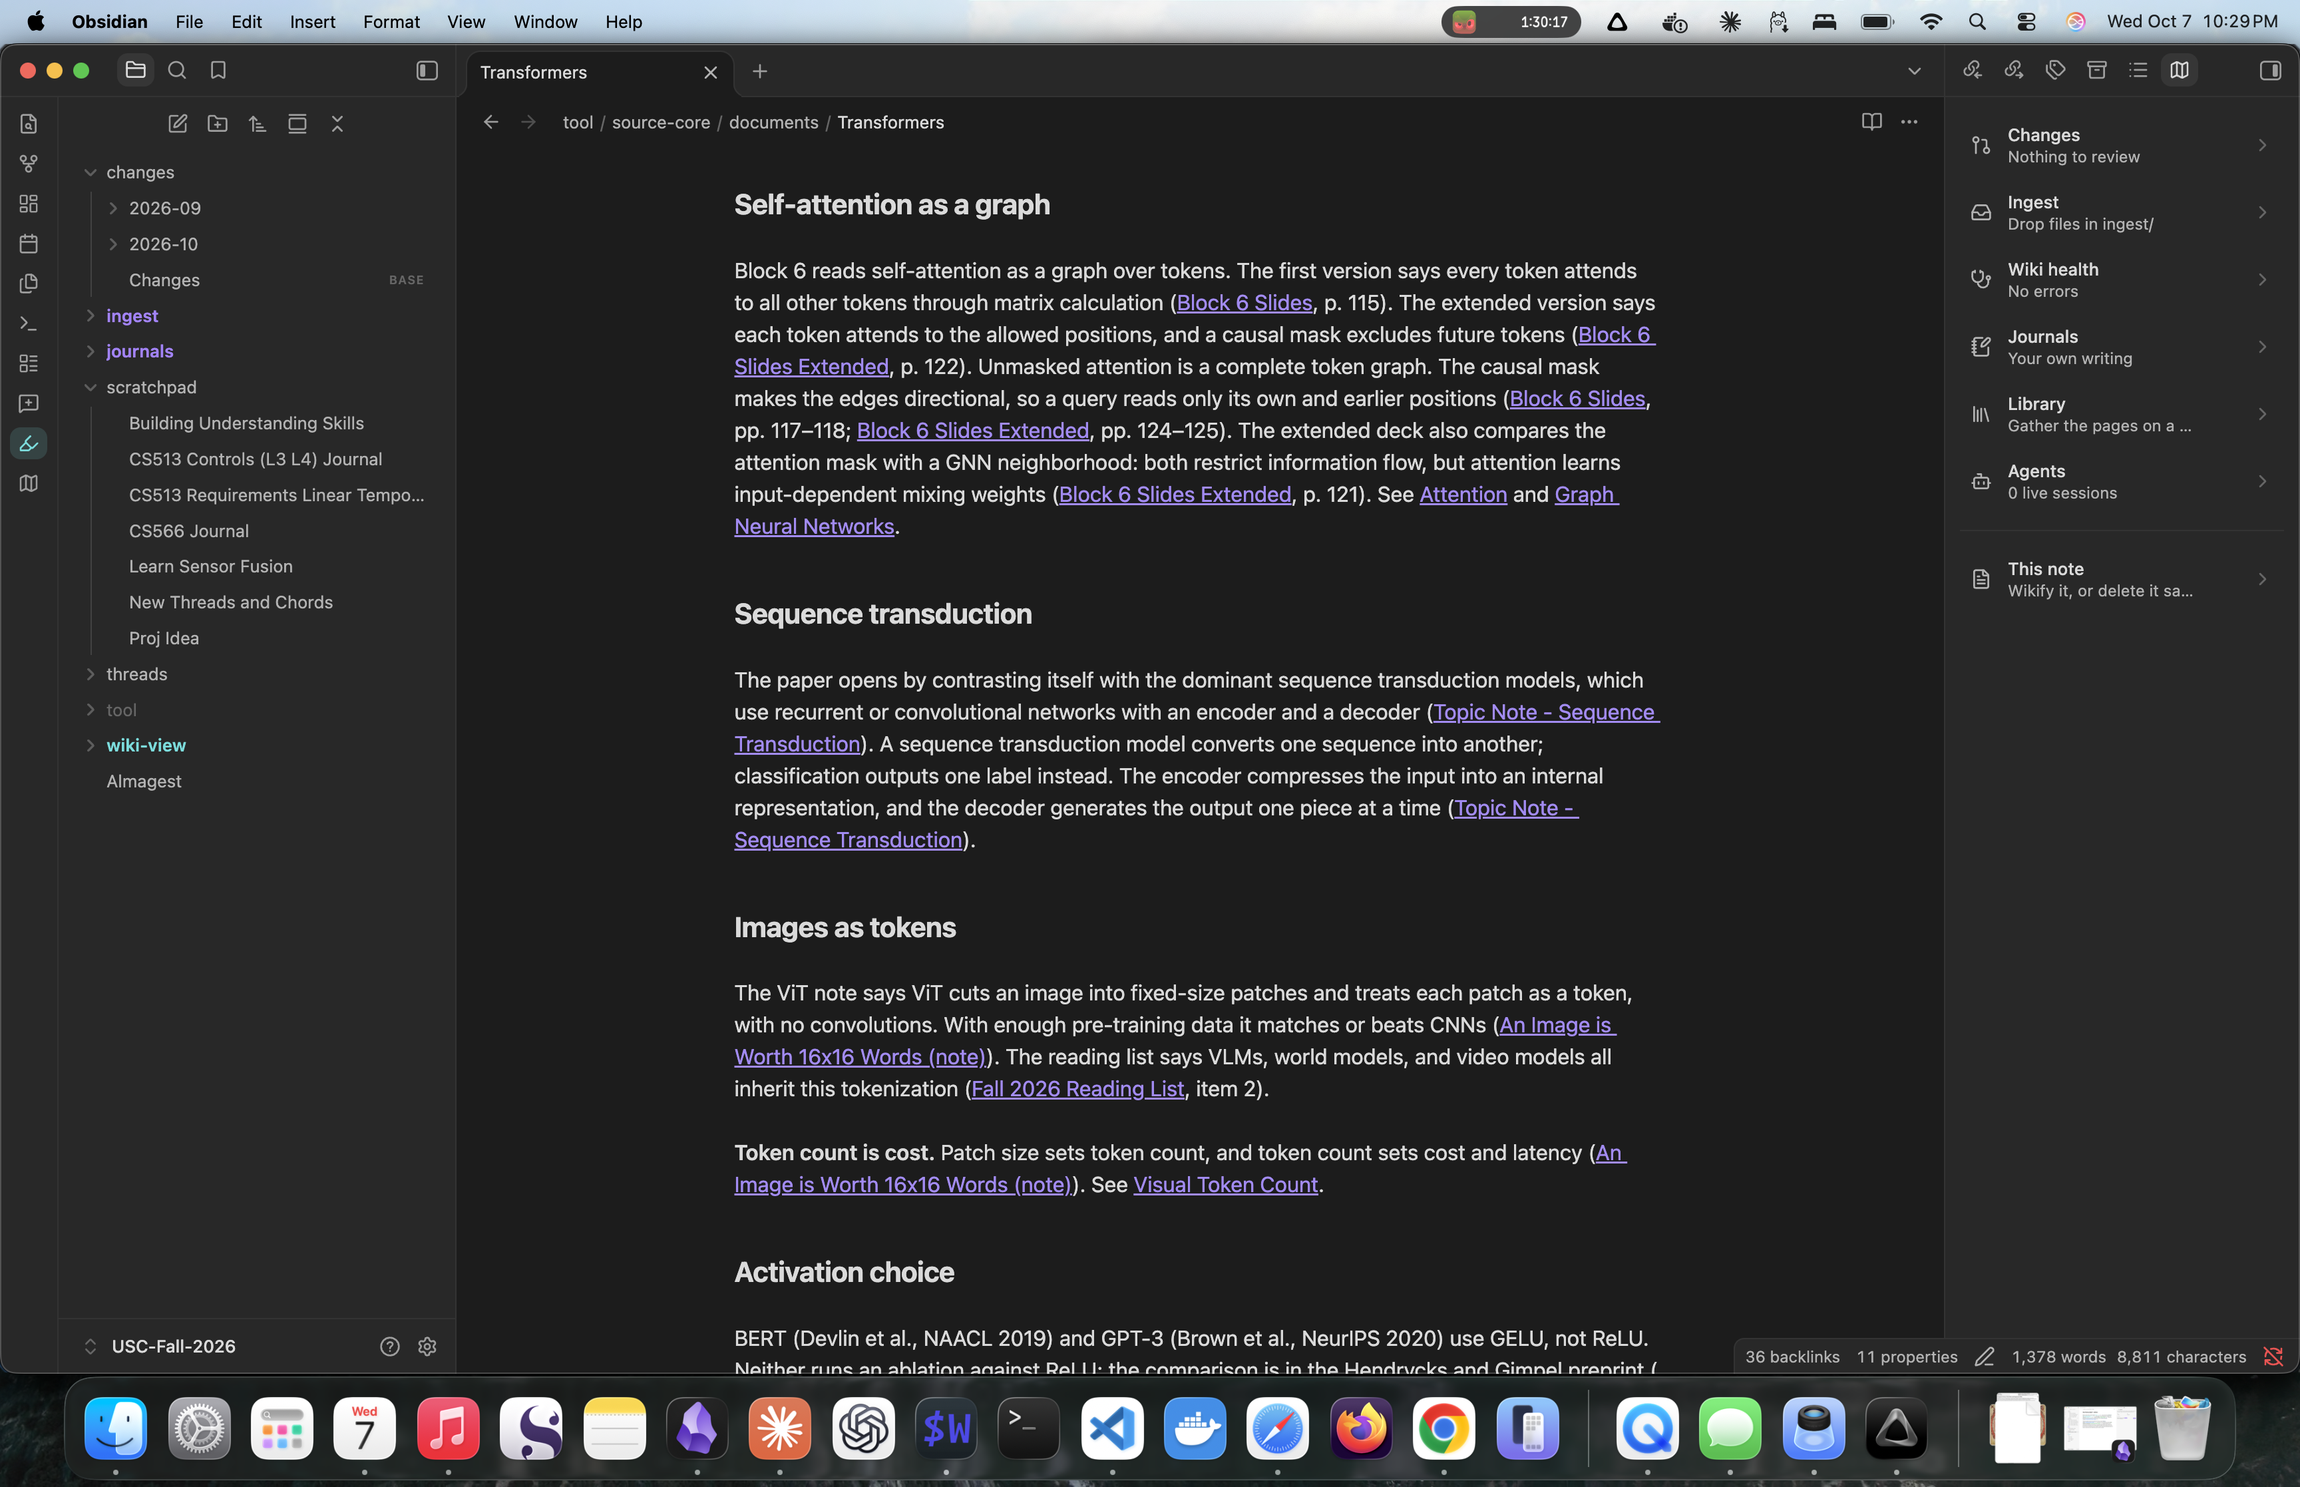
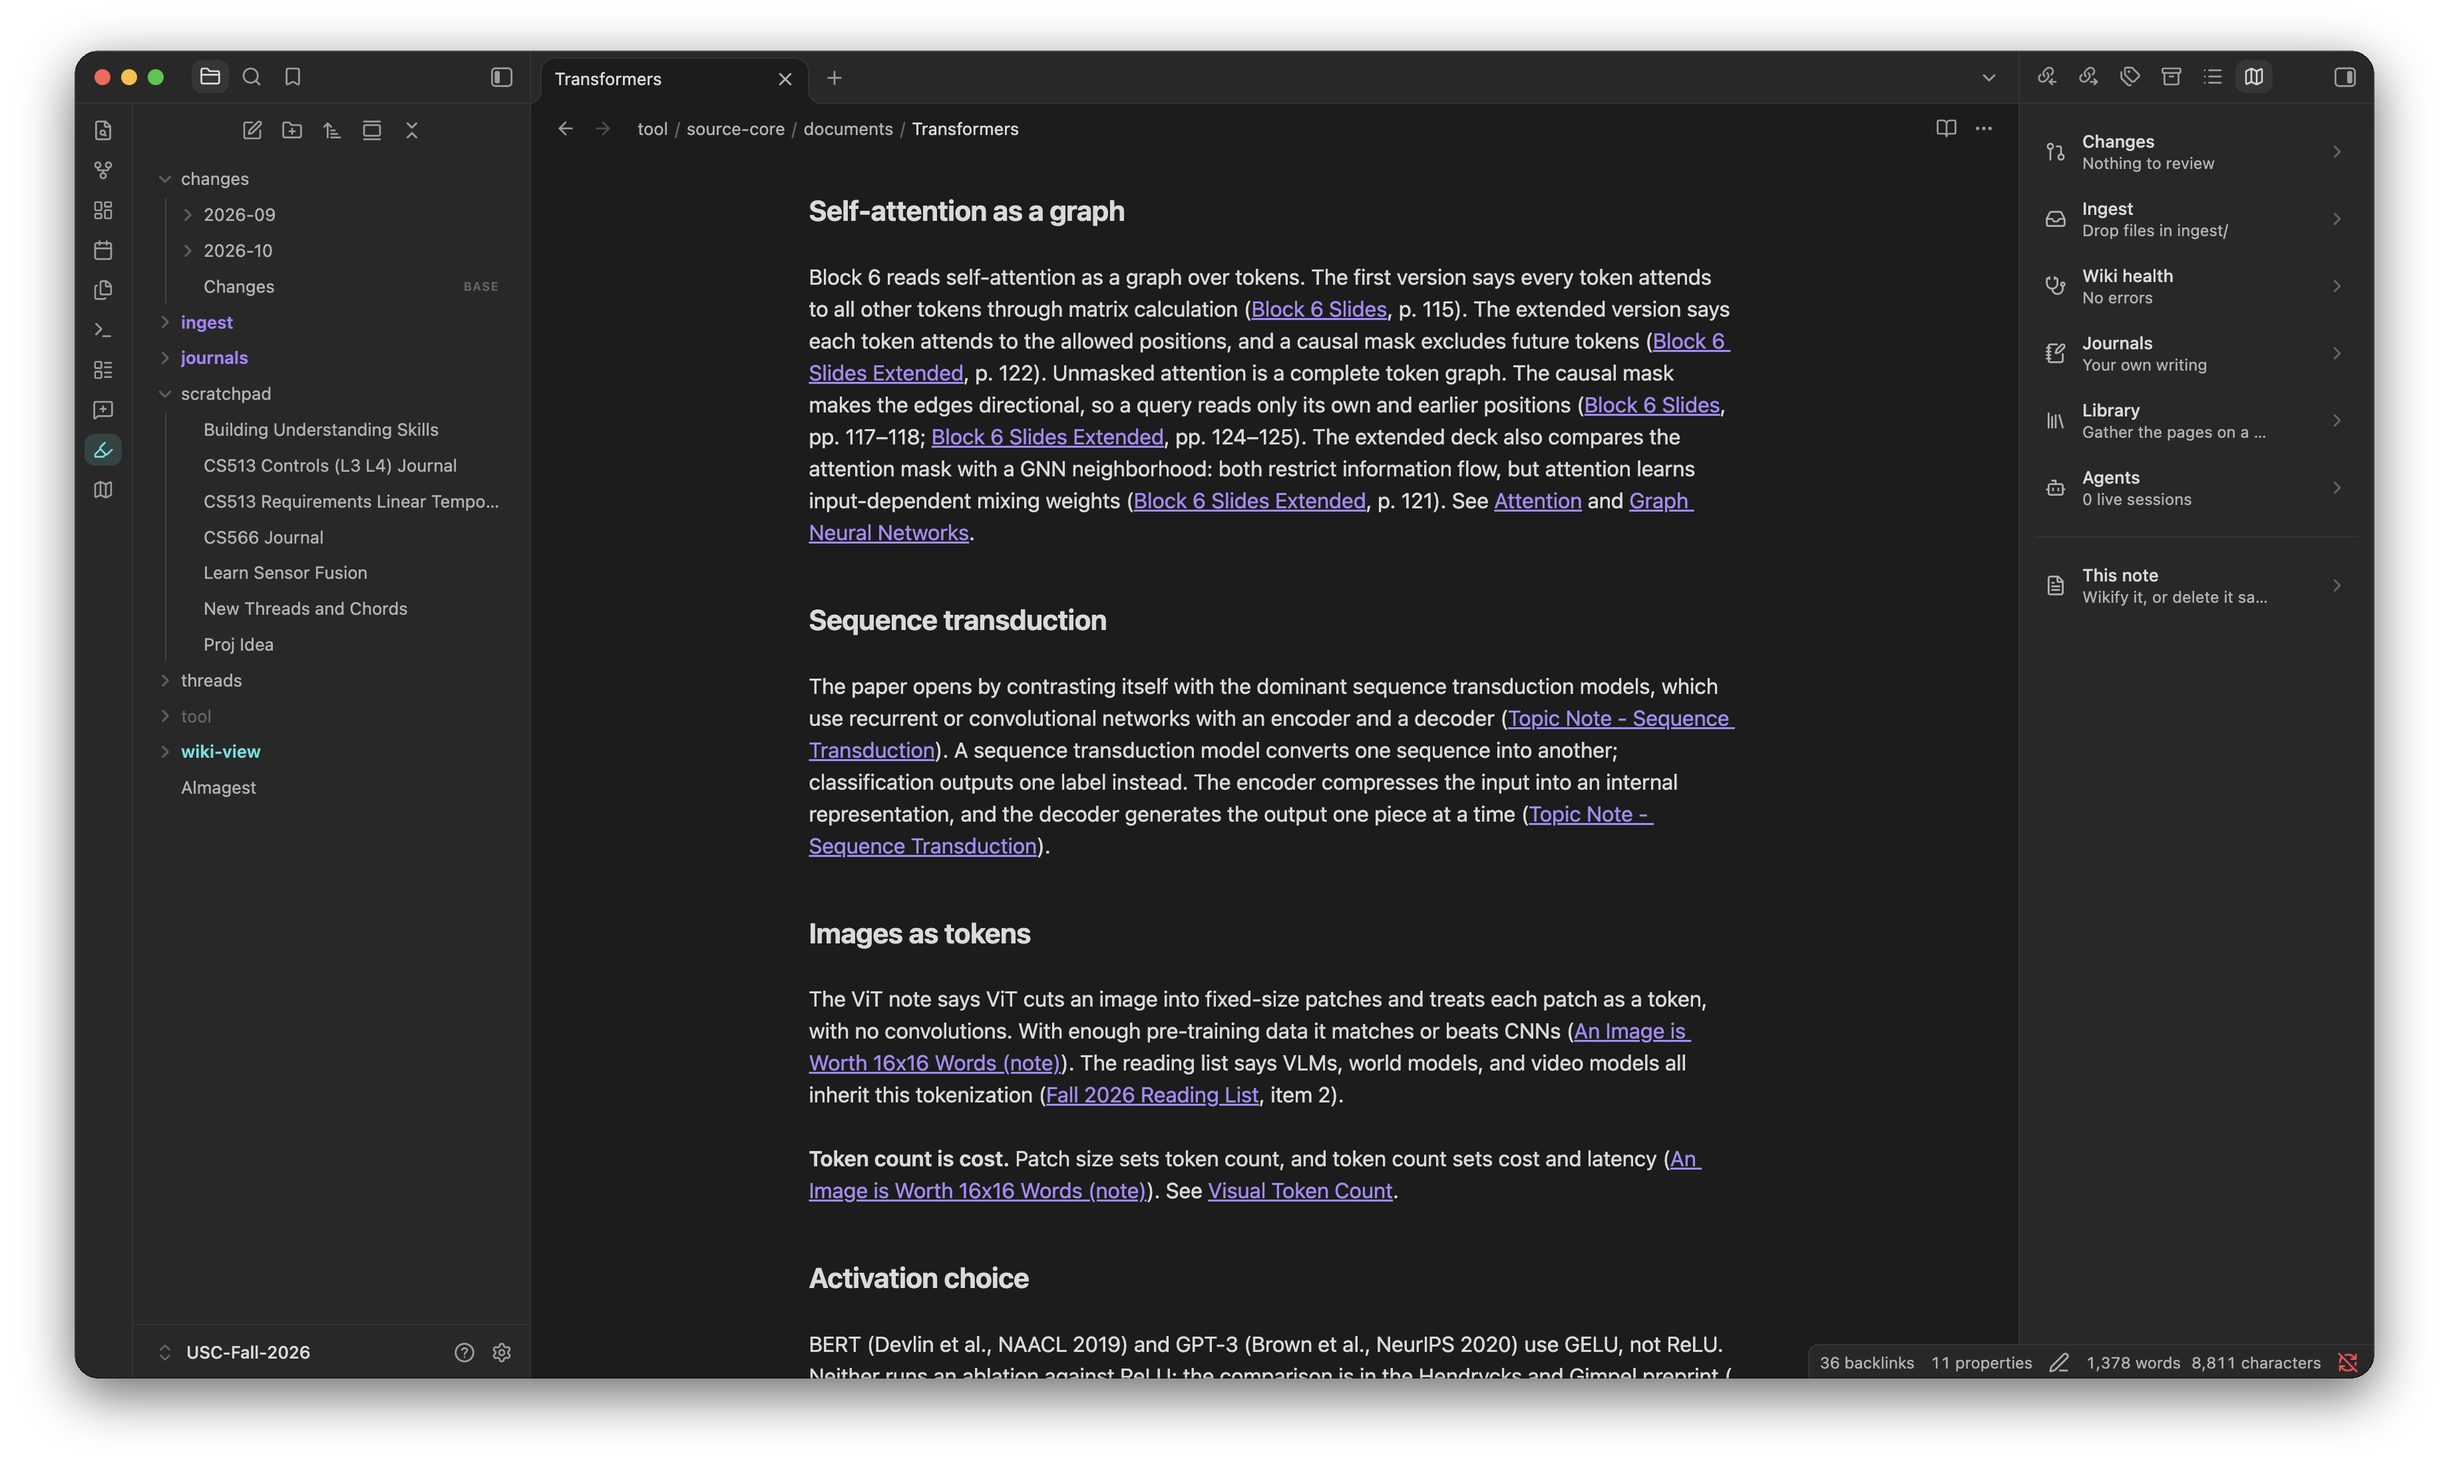
edited readme, added image examples

diff --git a/README.md b/README.md
@@ -23,6 +23,11 @@ But there were drawbacks in my experiences with AI second brains since day one. 
 3. Agents query the knowledge base automatically and efficiently
 4. You query the knowledge baes effortlessly and with joy
 
+<p align="center">
+  <img src="docs/knowledge_graph.png" alt="Graph view of a vault, with the Library panel" width="49%">
+  <img src="docs/knowledge_graph_2.png" alt="Graph view of a vault, centered on one topic" width="49%">
+</p>
+
 # Features
 
 ### Claude / Codex MCP Plugin
@@ -36,11 +41,18 @@ Paired with the [Duet] plugin, which lets you start agent conversations within O
 Drop papers, PDFs, or notes into `ingest/`, and press Ingest. Each ingest task becomes one
 document that you watch as it works. Change logs can be approved, canceled, edited, and questioned.
 
+<p align="center">
+  <img src="docs/ingest_agent_example.png" alt="An agent ingests seven files from ingest/" width="80%">
+</p>
+
 
 ### Approve / Reject Flow for all Agent Changes
 
 Any change to your knowledge base gets a dedicated "changes" page with a clear approve or deny path. You can also edit the change plan, or ask your agents for clarifications. This keeps your knowledge base under your control.
 
+<p align="center">
+  <img src="docs/approve_change_example.png" alt="A proposed change with Approve and Cancel" width="80%">
+</p>
 
 
 ### Wiki View for humans, Wiki Core for agents
@@ -48,6 +60,11 @@ Any change to your knowledge base gets a dedicated "changes" page with a clear a
 All raw sources, change logs, and llm doc live under the hood in a `tool/` directory. It's self-updating, but you don't have to look at it. This is where the MCP tools do fast information queries and where all new sources are ingested.
 
 The plugin constructs your `wiki-view` from these sources: a home age, timeline, library, and a navigation page for each tag. The user-interface can evolve over time with improvements with no impact to the core structure.
+
+<p align="center">
+  <img src="docs/library_view_example.png" alt="The Library view in wiki-view" width="48%">
+  <img src="docs/article_example.png" alt="A wiki topic with cited sources" width="50%">
+</p>
 
 
 ### Repository Links
@@ -66,9 +83,18 @@ When you want the wiki to learn from a volume, use the Publish action. Almagest 
 
 Ask to "check out all the material on reinforcement learning" or whatever topic you have in your vault. The librarian finds all relevant pages, follows their links only as far as they stay relevant, and puts copies of them in `checkout/` with a reading list. Read and mark up the copies. The (optional) `Return` action proposes your edits to the originals as one change, and a ledger lists every checkout.
 
+<p align="center">
+  <img src="docs/librarian_index_page.png" alt="A checkout's reading list" width="49%">
+  <img src="docs/librarian_checkout_ledger.png" alt="The checkout ledger" width="49%">
+</p>
+
 ### Wikify a note (experimental)
 
 Take any draft you are working on. The agent marks what the wiki already knows, then marks the subjects that are new and worth a page. You can Accept or Ignore new links directly on the UI. The wikified note stays where you are working on it, and does not need to enter the knowledge base until you are ready to ingest it.
+
+<p align="center">
+  <img src="docs/wikify_example.png" alt="A wikified note with link and new marks" width="80%">
+</p>
 
 ### Safe delete
 
@@ -77,6 +103,10 @@ Not sure whether you can delete a page? Don't want to break anything? Safe delet
 ### Agent Conversations
 
 Supports agent sessions in a terminal of your choice or directly in Obsidian using the Duet plugin.
+
+<p align="center">
+  <img src="docs/wezterm_example.png" alt="An Almagest session in a terminal" width="50%">
+</p>
 
 
 ## Quickstart
